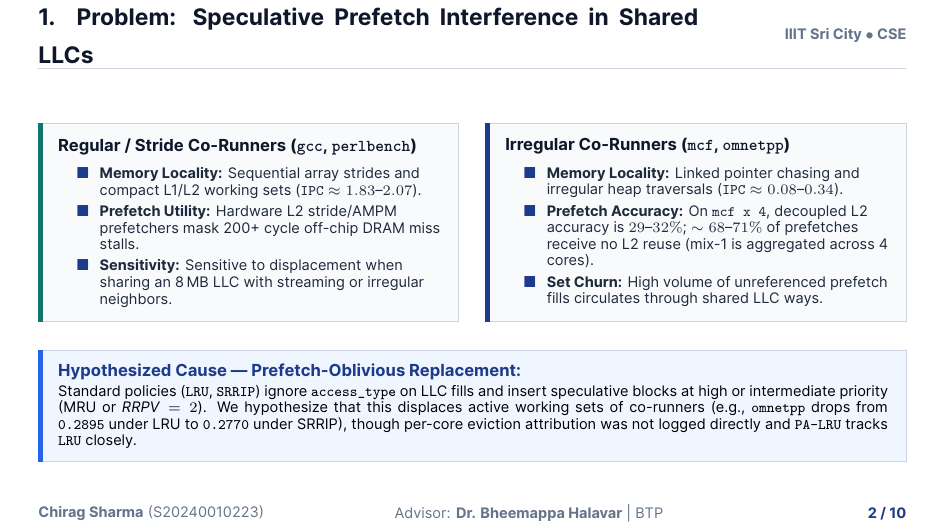
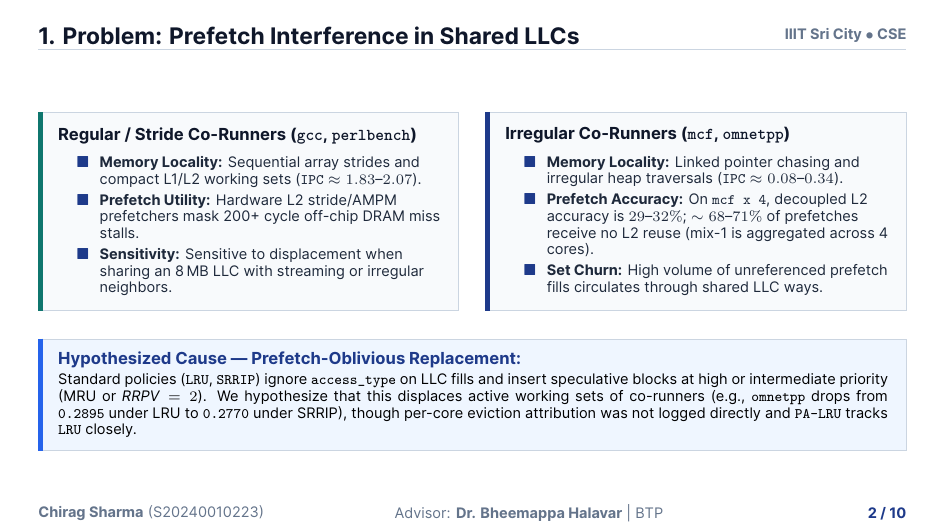
Fix Slide 2/6 title line wraps and Slide 7 heading alignment

diff --git a/presentation/BTP_Guide_Presentation.tex b/presentation/BTP_Guide_Presentation.tex
@@ -144,7 +144,7 @@
 % -----------------------------------------------------------------------------
 % Slide 2: Motivation (Softened hypothesis wording)
 % -----------------------------------------------------------------------------
-\begin{frame}{1. Problem: Speculative Prefetch Interference in Shared LLCs}
+\begin{frame}{1. Problem: Prefetch Interference in Shared LLCs}
   \vspace{-0.12cm}
   \begin{columns}[t, onlytextwidth]
     \begin{column}{0.485\textwidth}
@@ -364,7 +364,7 @@
 % -----------------------------------------------------------------------------
 % Slide 6: PA-Adaptive \& Honest Novelty Positioning vs PACMan
 % -----------------------------------------------------------------------------
-\begin{frame}{5. PA-Adaptive Design \& Comparison to PACMan (MICRO'11)}
+\begin{frame}{5. PA-Adaptive Design vs. PACMan (MICRO'11)}
   \vspace{-0.15cm}
   \begin{columns}[onlytextwidth]
     \begin{column}{0.46\textwidth}
@@ -418,7 +418,7 @@
   \begin{columns}[t, onlytextwidth]
     \begin{column}{0.485\textwidth}
       \begin{tcolorbox}[archpanel]
-        {\footnotesize\textbf{\color{Obsidian}Controlled Evaluation Matrix (\texttt{iiitsgpu}, \texttt{a341cc5})}}\par\vspace{0.06cm}
+        {\footnotesize\raggedright\textbf{\color{Obsidian}Controlled Evaluation Matrix (\texttt{iiitsgpu}, \texttt{a341cc5})}\par}\vspace{0.06cm}
         \begin{itemize}\setlength{\itemsep}{0.16em}\scriptsize
           \item \textbf{Two Matched Prefetcher Grids:} Evaluated \texttt{va\_ampm\_lite} and \texttt{ip\_stride} separately across identical 8-policy sets.
           \item \textbf{Methodology Correction:} An earlier prefetcher-mismatched comparison (\texttt{ip\_stride} vs \texttt{va\_ampm\_lite}) was detected and replaced by this matched grid.
